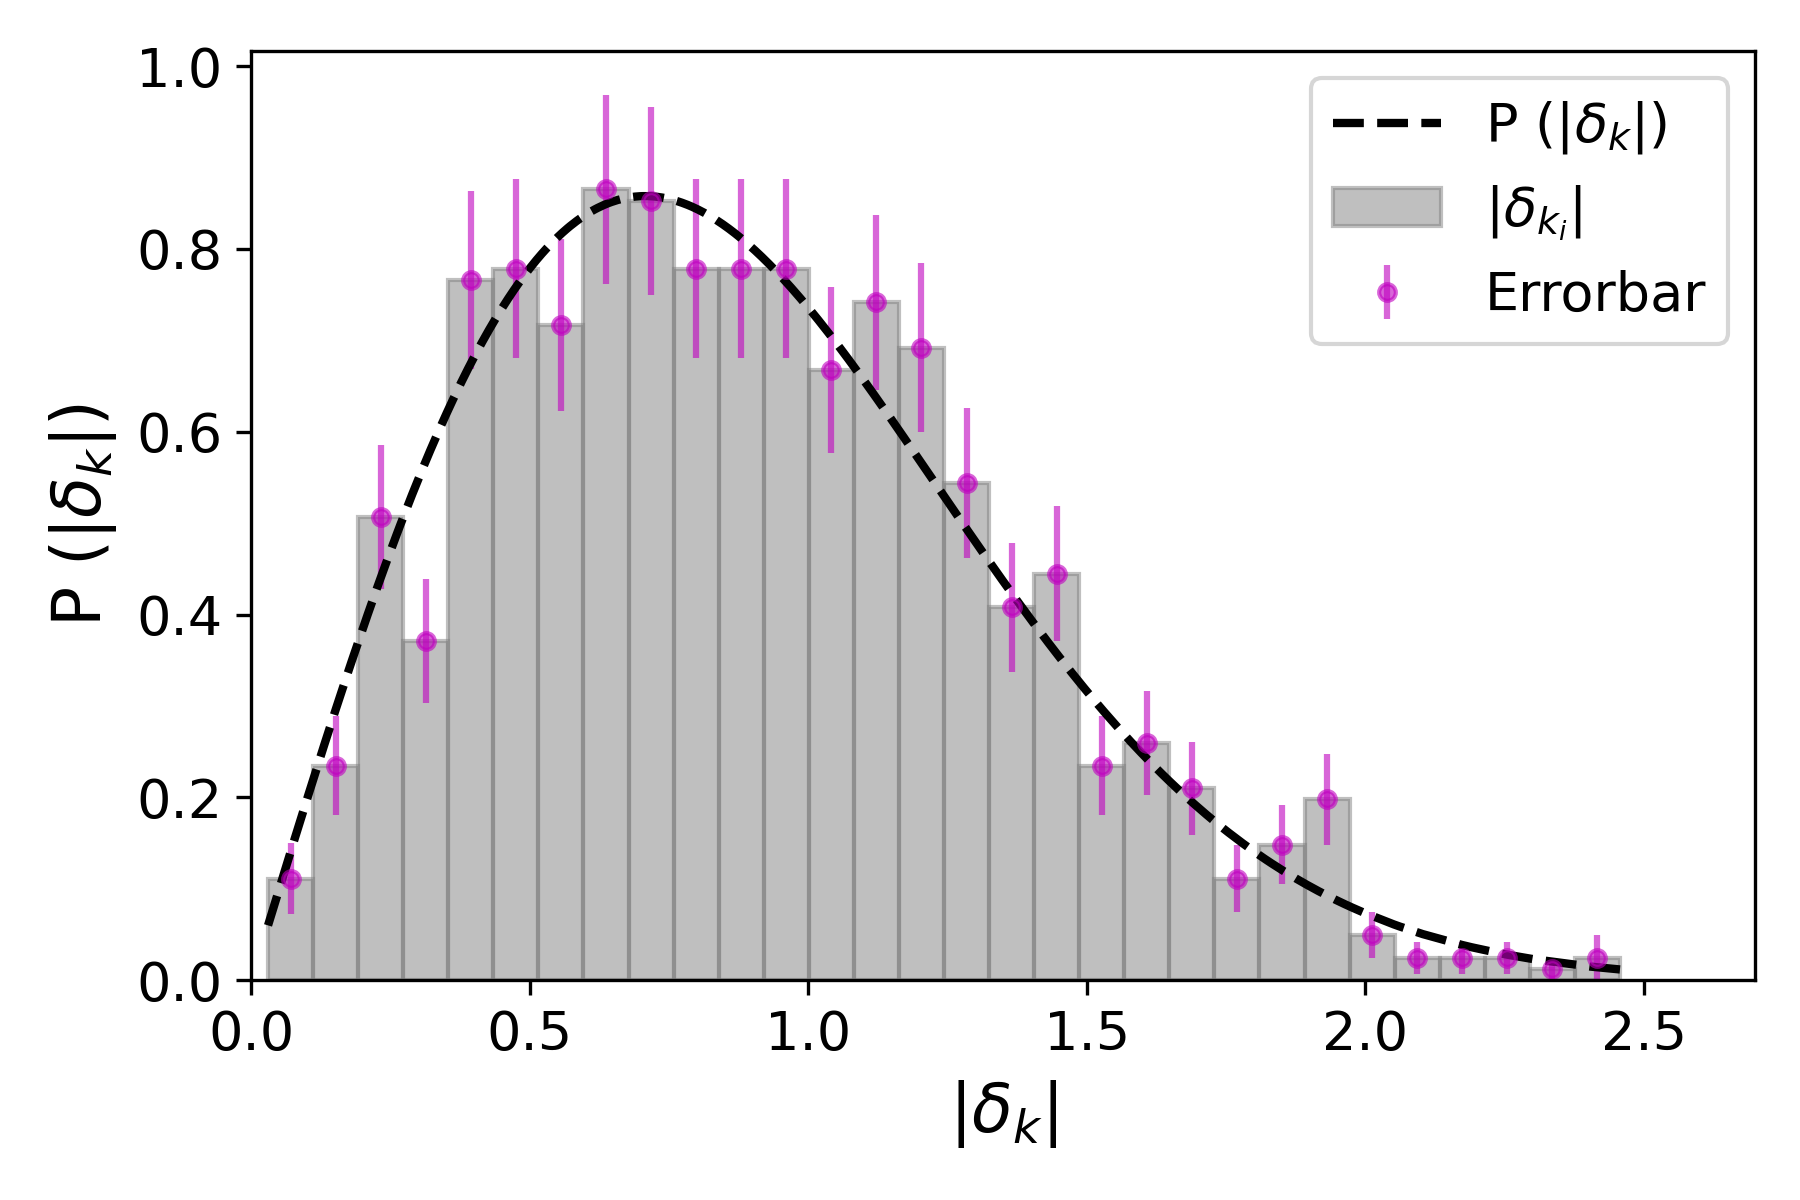
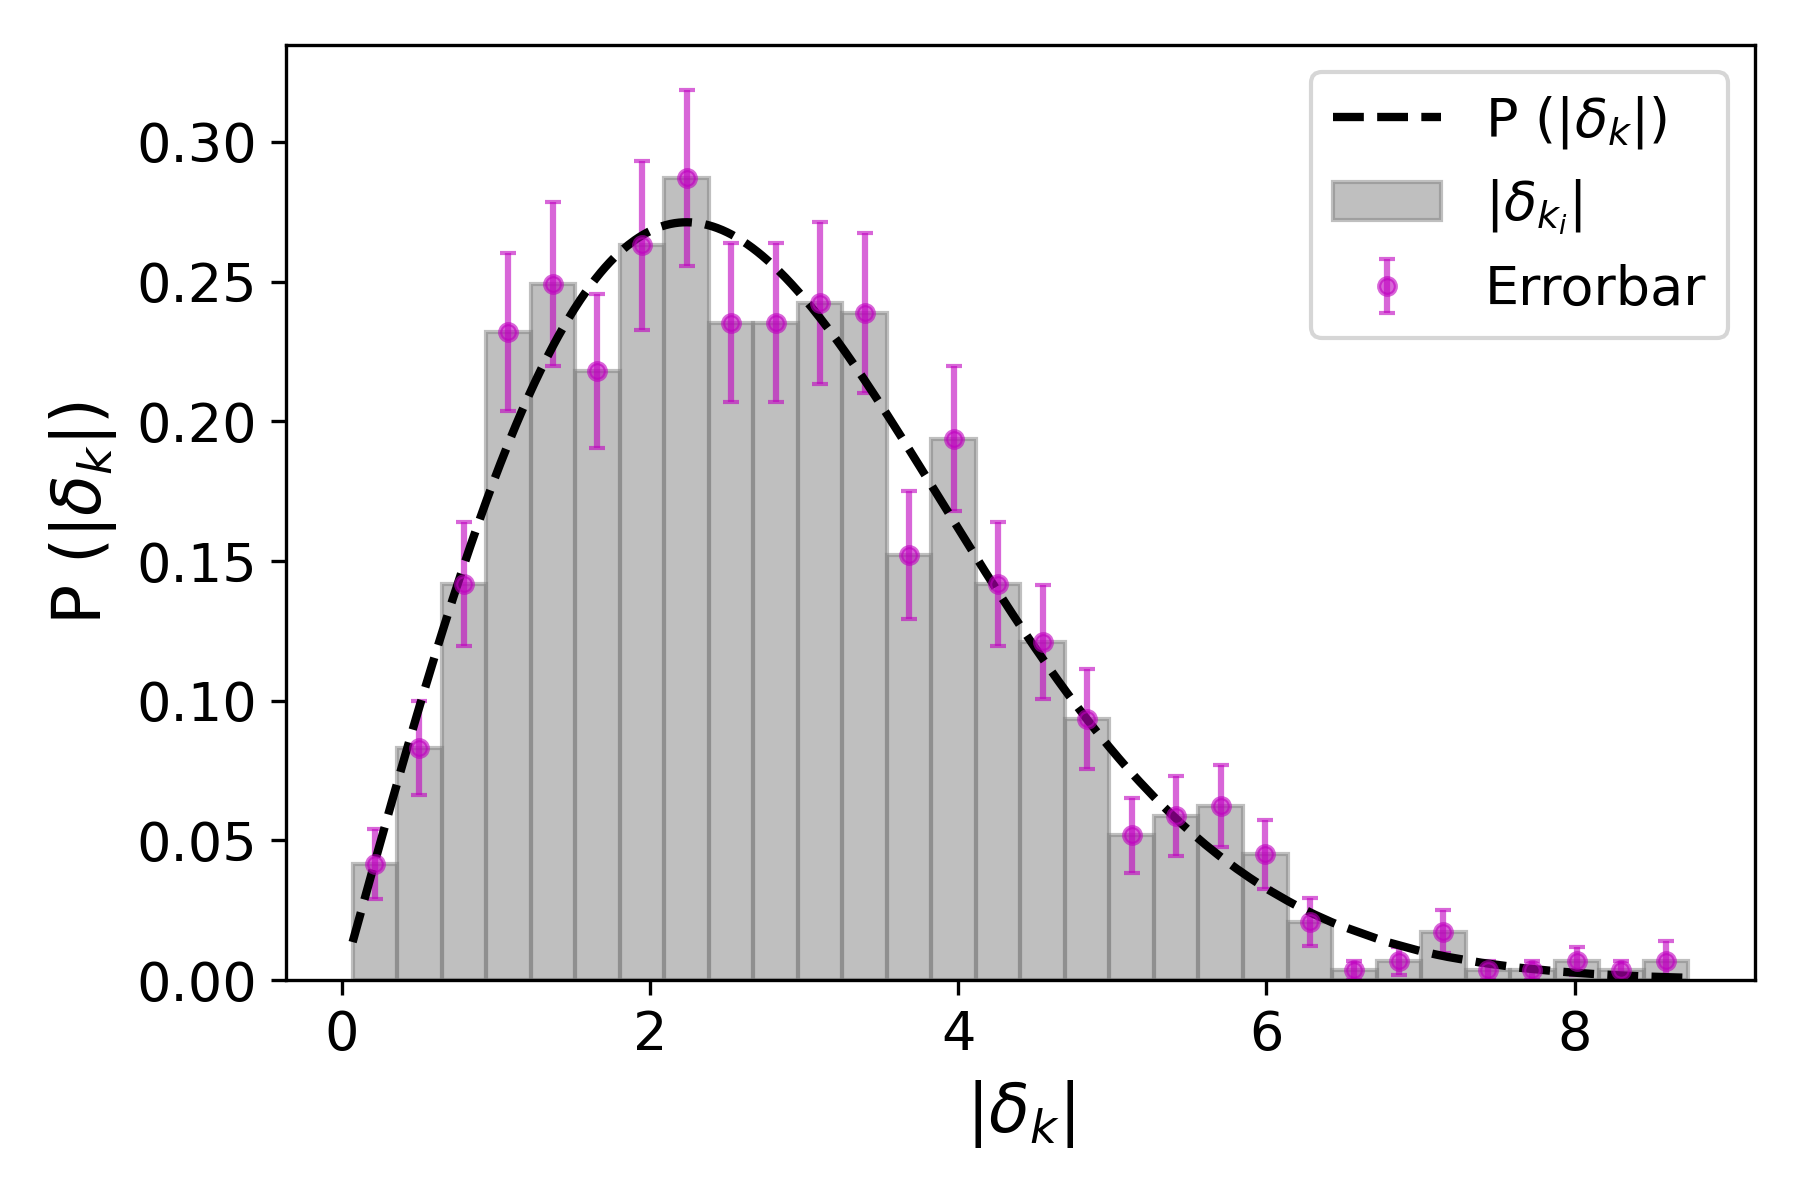
Second part guessing

diff --git a/apartado_1.py b/apartado_1.py
@@ -1,13 +1,12 @@
 import numpy as np
 import matplotlib.pyplot as plt
-import seaborn as sns
 
 plt.close('all')
 
 N = int(1e5)
 omega_i = np.random.uniform(0, 1, N)
 
-P = 1
+P = 10
 k = 2*np.pi/100
 delta_i = np.array(sorted(np.sqrt(- P*np.log(omega_i))))
 
@@ -33,11 +32,11 @@ nonzero = np.where(density != 0)
 error = np.zeros(len(y))
 error[nonzero] = y[nonzero]/np.sqrt(density[nonzero])
 
-plt.errorbar(bincenters, y, color = 'm', ls = '', yerr = error,fmt='.',ms=8,label = 'Errorbar',alpha=0.6)
+plt.errorbar(bincenters, y, color = 'm', ls = '', yerr = error,capsize=2,fmt='.',ms=8,label = 'Errorbar',alpha=0.6)
 plt.plot(delta_i, Ray, 'k--',linewidth=2,label ='P '+ r'$(|\delta_{k}|)$')
 plt.xlabel(r'$|\delta_{k}|$', fontsize = 16)
 plt.ylabel('P '+r'$(|\delta_{k}|)$', fontsize = 16)
-plt.xlim((0,2.7))
+#plt.xlim((0,2.7))
 plt.legend(fontsize=13)
 plt.xticks(fontsize=13)
 plt.yticks(fontsize=13)

diff --git a/apartado_2.py b/apartado_2.py
@@ -51,7 +51,8 @@ nonzero = np.where(density != 0)
 error = np.zeros(len(y))
 error[nonzero] = y[nonzero]/np.sqrt(density[nonzero])
 
-plt.errorbar(bincenters, y, color = 'm', ls = '', yerr = error,fmt='.',ms=8,label = 'Errores',alpha=0.6)
+plt.errorbar(bincenters, y, color = 'm', ls = '', yerr = error,capsize=2,fmt='.',ms=8,label = 'Errores',alpha=0.6)
+
 plt.plot(delta_x, Gauss, 'k--',linewidth=2, label = 'P '+ r'$(|\delta_{k}|)$')
 plt.xlabel(r'$\delta(x)$', fontsize = 16)
 plt.ylabel('P '+r'$(\delta(x))$', fontsize = 16)
